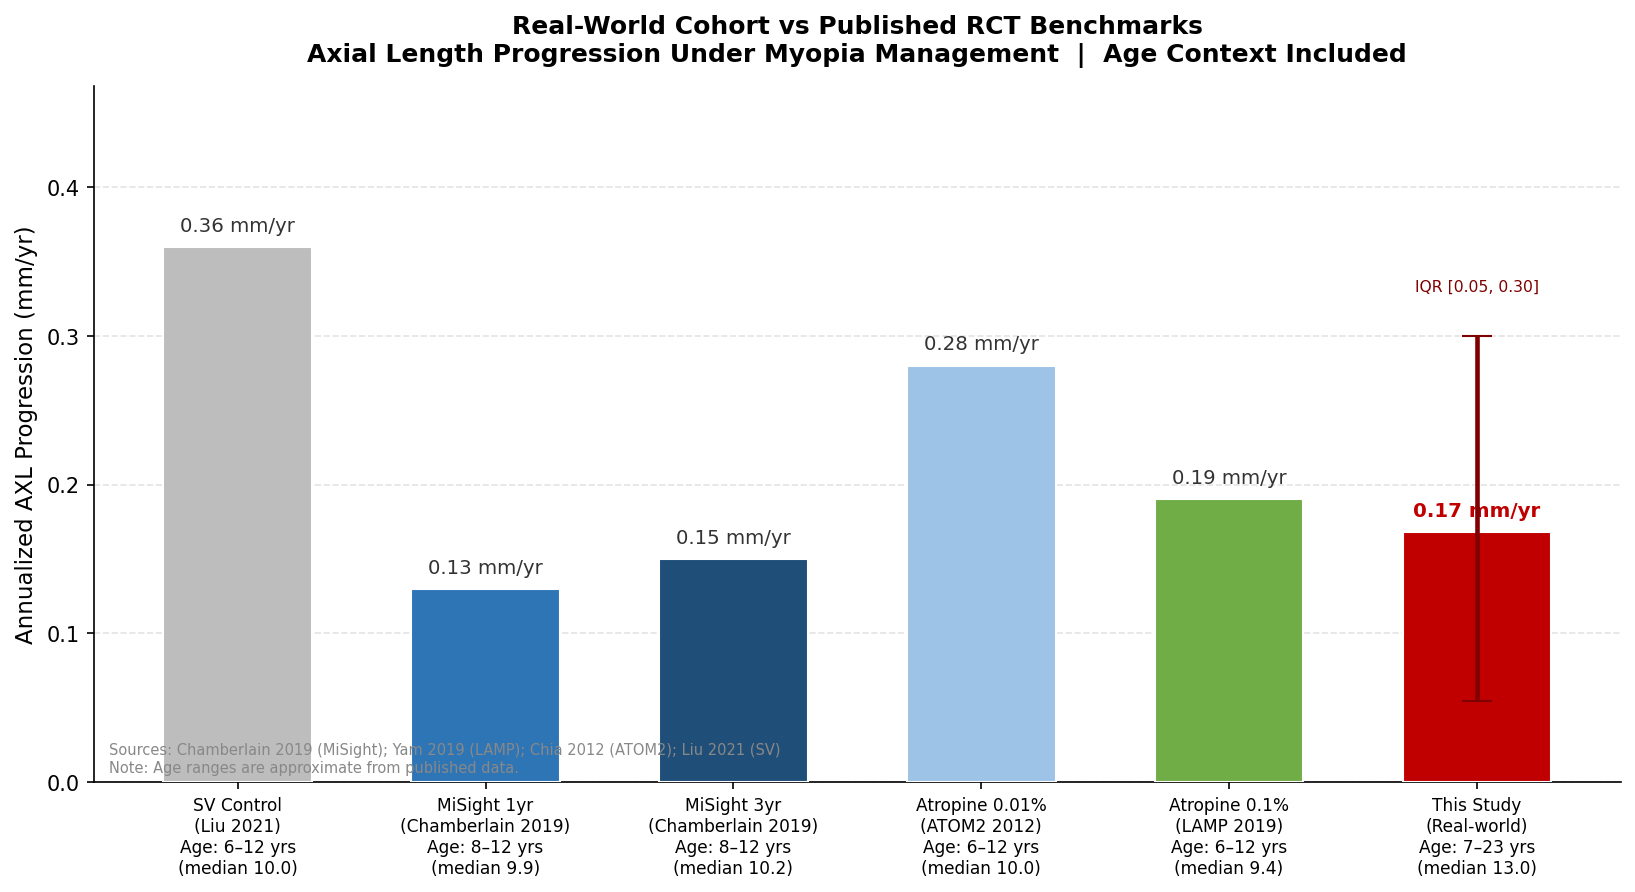
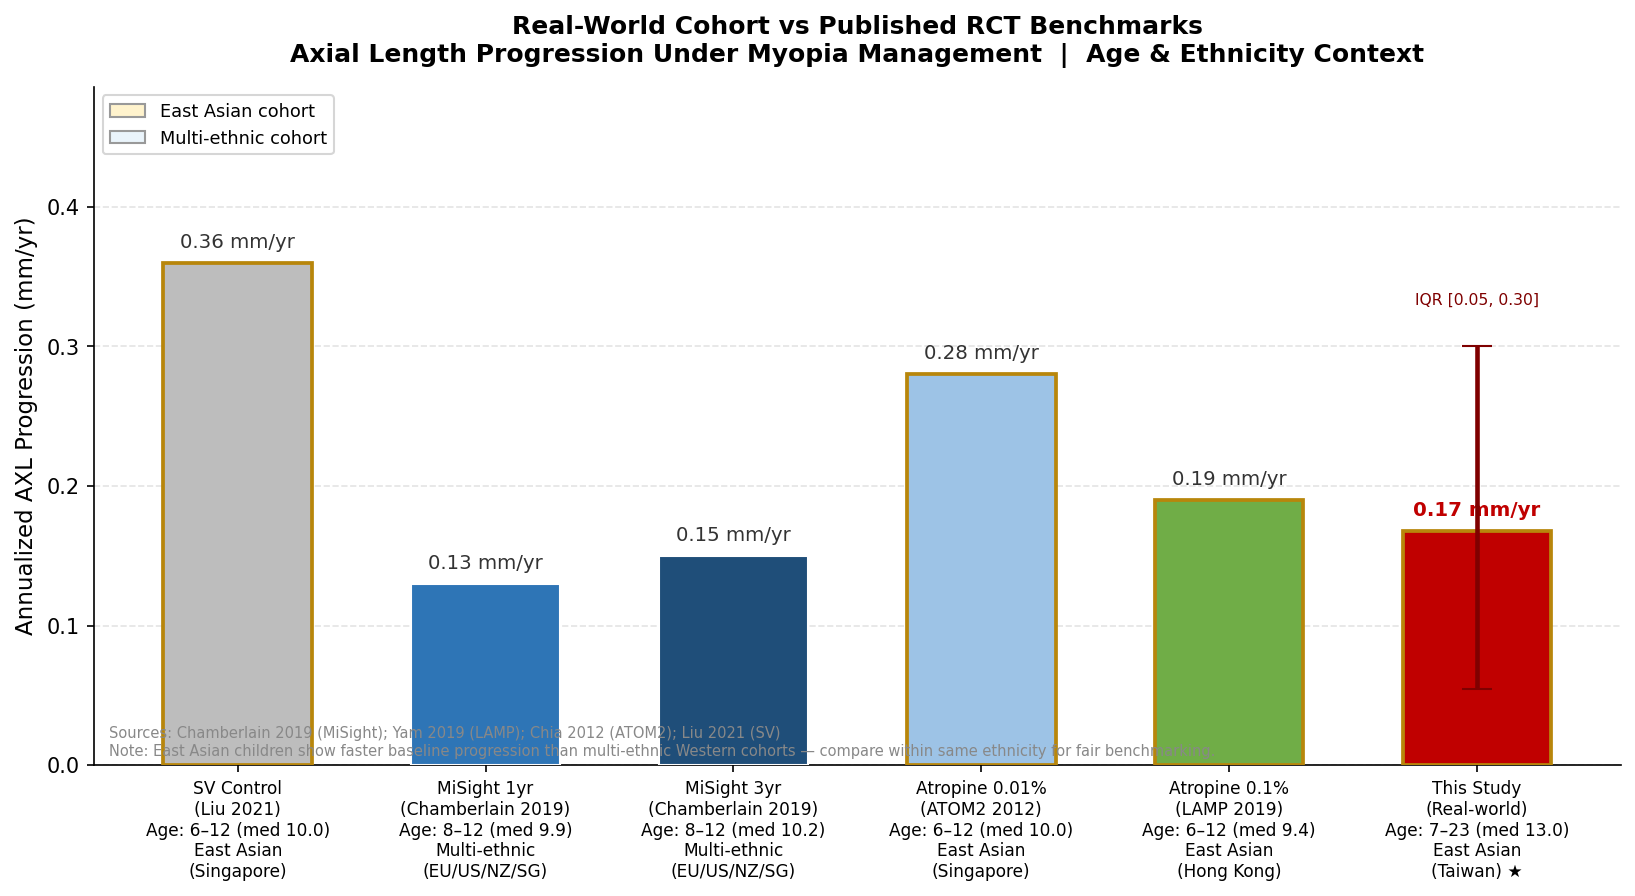
feat: add ethnicity context to RCT benchmarks and README

diff --git a/05_visualize.py b/05_visualize.py
@@ -307,22 +307,23 @@ def plot_rct_v2(df: pd.DataFrame, path: Path):
     real_age_min = int(age_real.min())
     real_age_max = int(age_real.max())
 
-    # (progression mm/yr, age_median, age_range_str, color, bar_label)
+    # (progression mm/yr, age_median, age_range_str, color, bar_label, ethnicity)
     studies = [
-        (0.36,  10.0, "6–12",    C_GRAY,    "SV Control\n(Liu 2021)"),
-        (0.13,   9.9, "8–12",   "#2E75B6",  "MiSight 1yr\n(Chamberlain 2019)"),
-        (0.15,  10.2, "8–12",   "#1F4E79",  "MiSight 3yr\n(Chamberlain 2019)"),
-        (0.28,  10.0, "6–12",   "#9DC3E6",  "Atropine 0.01%\n(ATOM2 2012)"),
-        (0.19,   9.4, "6–12",   "#70AD47",  "Atropine 0.1%\n(LAMP 2019)"),
+        (0.36,  10.0, "6–12",  C_GRAY,   "SV Control\n(Liu 2021)",           "East Asian\n(Singapore)"),
+        (0.13,   9.9, "8–12", "#2E75B6", "MiSight 1yr\n(Chamberlain 2019)",  "Multi-ethnic\n(EU/US/NZ/SG)"),
+        (0.15,  10.2, "8–12", "#1F4E79", "MiSight 3yr\n(Chamberlain 2019)",  "Multi-ethnic\n(EU/US/NZ/SG)"),
+        (0.28,  10.0, "6–12", "#9DC3E6", "Atropine 0.01%\n(ATOM2 2012)",     "East Asian\n(Singapore)"),
+        (0.19,   9.4, "6–12", "#70AD47", "Atropine 0.1%\n(LAMP 2019)",       "East Asian\n(Hong Kong)"),
         (real_med, real_age_med, f"{real_age_min}–{real_age_max}",
-         C_ACCENT, f"This Study\n(Real-world)"),
+         C_ACCENT, f"This Study\n(Real-world)",                               "East Asian\n(Taiwan) ★"),
     ]
 
-    labels   = [s[4] for s in studies]
-    values   = [s[0] for s in studies]
-    age_meds = [s[1] for s in studies]
-    age_rngs = [s[2] for s in studies]
-    colors   = [s[3] for s in studies]
+    labels     = [s[4] for s in studies]
+    values     = [s[0] for s in studies]
+    age_meds   = [s[1] for s in studies]
+    age_rngs   = [s[2] for s in studies]
+    colors     = [s[3] for s in studies]
+    ethnicities= [s[5] for s in studies]
 
     fig, ax = plt.subplots(figsize=(11, 6))
 
@@ -343,10 +344,10 @@ def plot_rct_v2(df: pd.DataFrame, path: Path):
                 fontweight="bold" if i == this_i else "normal",
                 color=C_ACCENT if i == this_i else "#333")
 
-    # X 軸標籤：研究名 + 年齡資訊
+    # X 軸標籤：研究名 + 年齡 + 族群
     xtick_labels = []
-    for i, (lbl, age_m, age_r) in enumerate(zip(labels, age_meds, age_rngs)):
-        xtick_labels.append(f"{lbl}\nAge: {age_r} yrs\n(median {age_m:.1f})")
+    for i, (lbl, age_m, age_r, eth) in enumerate(zip(labels, age_meds, age_rngs, ethnicities)):
+        xtick_labels.append(f"{lbl}\nAge: {age_r} (med {age_m:.1f})\n{eth}")
 
     ax.set_xticks(range(len(studies)))
     ax.set_xticklabels(xtick_labels, fontsize=8.2)
@@ -354,22 +355,34 @@ def plot_rct_v2(df: pd.DataFrame, path: Path):
     ax.set_ylabel("Annualized AXL Progression (mm/yr)", fontsize=11)
     ax.set_title(
         "Real-World Cohort vs Published RCT Benchmarks\n"
-        "Axial Length Progression Under Myopia Management  |  Age Context Included",
+        "Axial Length Progression Under Myopia Management  |  Age & Ethnicity Context",
         fontsize=12, fontweight="bold", pad=12
     )
-    ax.set_ylim(0, max(values) * 1.3)
+    ax.set_ylim(0, max(values) * 1.35)
     ax.spines[["top","right"]].set_visible(False)
     ax.grid(axis="y", linestyle="--", alpha=0.35, zorder=0)
+
+    # 族群圖例
+    ea_patch   = mpatches.Patch(facecolor="#FFF3CD", edgecolor="#999", label="East Asian cohort")
+    multi_patch= mpatches.Patch(facecolor="#EAF4FB", edgecolor="#999", label="Multi-ethnic cohort")
+    ax.legend(handles=[ea_patch, multi_patch], fontsize=8.5, loc="upper left")
+
+    # East Asian bar 加底色標示
+    for i, eth in enumerate(ethnicities):
+        if "East Asian" in eth:
+            bars[i].set_edgecolor("#B8860B")
+            bars[i].set_linewidth(1.8)
 
     # 備注：This study IQR
     ax.text(this_i, real_q75 + 0.03,
             f"IQR [{real_q25:.2f}, {real_q75:.2f}]",
             ha="center", fontsize=7.5, color="#7F0000")
 
-    # 資料來源
+    # 資料來源 + 族群說明
     ax.text(0.01, 0.01,
-            "Sources: Chamberlain 2019 (MiSight); Yam 2019 (LAMP); "
-            "Chia 2012 (ATOM2); Liu 2021 (SV)\nNote: Age ranges are approximate from published data.",
+            "Sources: Chamberlain 2019 (MiSight); Yam 2019 (LAMP); Chia 2012 (ATOM2); Liu 2021 (SV)\n"
+            "Note: East Asian children show faster baseline progression than multi-ethnic Western cohorts — "
+            "compare within same ethnicity for fair benchmarking.",
             transform=ax.transAxes, fontsize=7, color="#888",
             verticalalignment="bottom")
 

diff --git a/app.py b/app.py
@@ -48,12 +48,13 @@ except Exception as e:
     st.error(f"模型載入失敗：{e}")
 
 # ── 文獻參考值 ────────────────────────────────────────────────
+# (mm/yr, age_range, ethnicity_note)
 RCT_REF = {
-    "Single Vision (control)": (0.36, "6–12 yrs"),
-    "MiSight 1-year (Chamberlain 2019)": (0.13, "8–12 yrs"),
-    "MiSight 3-year (Chamberlain 2019)": (0.15, "8–12 yrs"),
-    "Atropine 0.01% (ATOM2)":           (0.28, "6–12 yrs"),
-    "Atropine 0.1% (LAMP)":             (0.19, "6–12 yrs"),
+    "Single Vision (control)\n(Liu 2021)"        : (0.36, "6–12 yrs", "East Asian · Singapore"),
+    "MiSight 1yr (Chamberlain 2019)"             : (0.13, "8–12 yrs", "Multi-ethnic · EU/US/NZ/SG"),
+    "MiSight 3yr (Chamberlain 2019)"             : (0.15, "8–12 yrs", "Multi-ethnic · EU/US/NZ/SG"),
+    "Atropine 0.01% · ATOM2 (Chia 2012)"         : (0.28, "6–12 yrs", "East Asian · Singapore"),
+    "Atropine 0.1% · LAMP (Yam 2019)"            : (0.19, "6–12 yrs", "East Asian · Hong Kong"),
 }
 
 # ── 風險分級 ──────────────────────────────────────────────────
@@ -183,19 +184,27 @@ if MODEL_OK and predict_btn:
 
     with col2:
         st.markdown("### vs. Literature")
-        for study, (ref_val, age_range) in RCT_REF.items():
+        st.caption("⚠️ East Asian children progress faster than multi-ethnic cohorts — compare within same ethnicity for fairness.")
+        for study, (ref_val, age_range, ethnicity) in RCT_REF.items():
             delta = y_pred - ref_val
             arrow = "▲" if delta > 0 else "▼"
             color = "#C00000" if delta > 0.05 else ("#375623" if delta < -0.05 else "#555")
+            # 標示 East Asian 研究（和你的台灣資料族群相近）
+            ea_badge = " 🟡" if "East Asian" in ethnicity else " ⚪"
             st.markdown(
-                f"<div style='margin-bottom:8px;'>"
-                f"<span style='font-size:0.78rem; color:#888;'>{study}<br>{age_range}</span><br>"
+                f"<div style='margin-bottom:10px; padding:6px 8px; "
+                f"border-radius:5px; background:{'#FFFBE6' if 'East Asian' in ethnicity else '#F8F8F8'};'>"
+                f"<span style='font-size:0.78rem; color:#555; font-weight:600;'>"
+                f"{study.replace(chr(10), ' ')}{ea_badge}</span><br>"
+                f"<span style='font-size:0.74rem; color:#888;'>"
+                f"{age_range} · {ethnicity}</span><br>"
                 f"<span style='font-weight:700;'>{ref_val:.2f}</span> mm/yr &nbsp;"
                 f"<span style='color:{color}; font-weight:600;'>"
                 f"{arrow} {abs(delta):.3f}</span>"
                 f"</div>",
                 unsafe_allow_html=True
             )
+        st.caption("🟡 East Asian cohorts (most comparable to this study's Taiwan population)")
 
     with col3:
         st.markdown("### Risk Gauge")

diff --git a/README.md b/README.md
@@ -30,6 +30,23 @@ Myopia (short-sightedness) affects ~30% of the global population and is projecte
 - Avoid over-treating **slow progressors** who respond well to MiSight alone
 - Provide objective, data-driven counseling to families
 
+### Ethnicity Matters: Why You Can't Directly Compare All RCTs
+
+A critical but often overlooked factor in myopia benchmarking is **ethnicity-related differences in progression rate**. East Asian children exhibit significantly faster untreated myopia progression (~0.36–0.45 mm/yr axial length) compared to multi-ethnic Western cohorts (~0.25–0.36 mm/yr), driven by a combination of genetic susceptibility and environmental factors (near work intensity, reduced outdoor time).
+
+This has direct implications for how we interpret RCT benchmarks:
+
+| Study | Cohort | Ethnicity | AXL Progression (mm/yr) |
+|---|---|---|---|
+| Liu 2021 (SV control) | Singapore | **East Asian** | 0.36 |
+| Chamberlain 2019 (MiSight 1yr) | EU / US / NZ / SG | **Multi-ethnic** | 0.13 |
+| Chamberlain 2019 (MiSight 3yr) | EU / US / NZ / SG | **Multi-ethnic** | 0.15 |
+| Chia 2012 (ATOM2, 0.01% atropine) | Singapore | **East Asian** | 0.28 |
+| Yam 2019 (LAMP, 0.1% atropine) | Hong Kong | **East Asian** | 0.19 |
+| **This study** | **Taiwan** | **East Asian** | **~0.17 (median)** |
+
+Our Taiwan cohort median of **0.17 mm/yr** is most appropriately benchmarked against East Asian RCTs (LAMP: 0.19 mm/yr; ATOM2: 0.28 mm/yr), where the untreated baseline progression rates are comparable. Direct comparison to the multi-ethnic MiSight trial (0.13 mm/yr) should account for the fact that East Asian children have a higher baseline progression risk, making a similar treatment outcome harder to achieve.
+
 ---
 
 ## Data
@@ -177,9 +194,17 @@ This project is a **retrospective exploratory analysis**, not a clinical trial. 
 
 ## References
 
-- Chamberlain P, et al. *A 3-year Randomized Clinical Trial of MiSight Lenses for Myopia Control.* Optom Vis Sci. 2019.
-- Yam JC, et al. *Low-Concentration Atropine for Myopia Progression (LAMP).* Ophthalmology. 2019.
-- Chia A, et al. *Atropine for the Treatment of Childhood Myopia (ATOM2).* Ophthalmology. 2012.
+**Clinical Trials**
+- Chamberlain P, et al. *A 3-year Randomized Clinical Trial of MiSight Lenses for Myopia Control.* Optom Vis Sci. 2019. *(Multi-ethnic)*
+- Yam JC, et al. *Low-Concentration Atropine for Myopia Progression (LAMP).* Ophthalmology. 2019. *(East Asian — Hong Kong)*
+- Chia A, et al. *Atropine for the Treatment of Childhood Myopia (ATOM2).* Ophthalmology. 2012. *(East Asian — Singapore)*
+
+**Ethnicity & Progression Rates**
+- Sankaridurg P, et al. *IMI — Clinical Myopia Control Trials and Instrumentation Report.* Invest Ophthalmol Vis Sci. 2021.
+- French AN, et al. *Risk Factors for Incident Myopia in Australian Schoolchildren.* Ophthalmology. 2013. *(Western baseline reference)*
+- Chua SY, et al. *Myopia Prevalence in Singapore.* Br J Ophthalmol. 2016. *(East Asian baseline reference)*
+
+**Normative Data**
 - Tideman JWL, et al. *Association of Axial Length With Risk of Uncorrectable Visual Impairment.* JAMA Ophthalmol. 2016.
 - IMI – Myopia Management Guidelines. *Investigative Ophthalmology & Visual Science.* 2021.
 